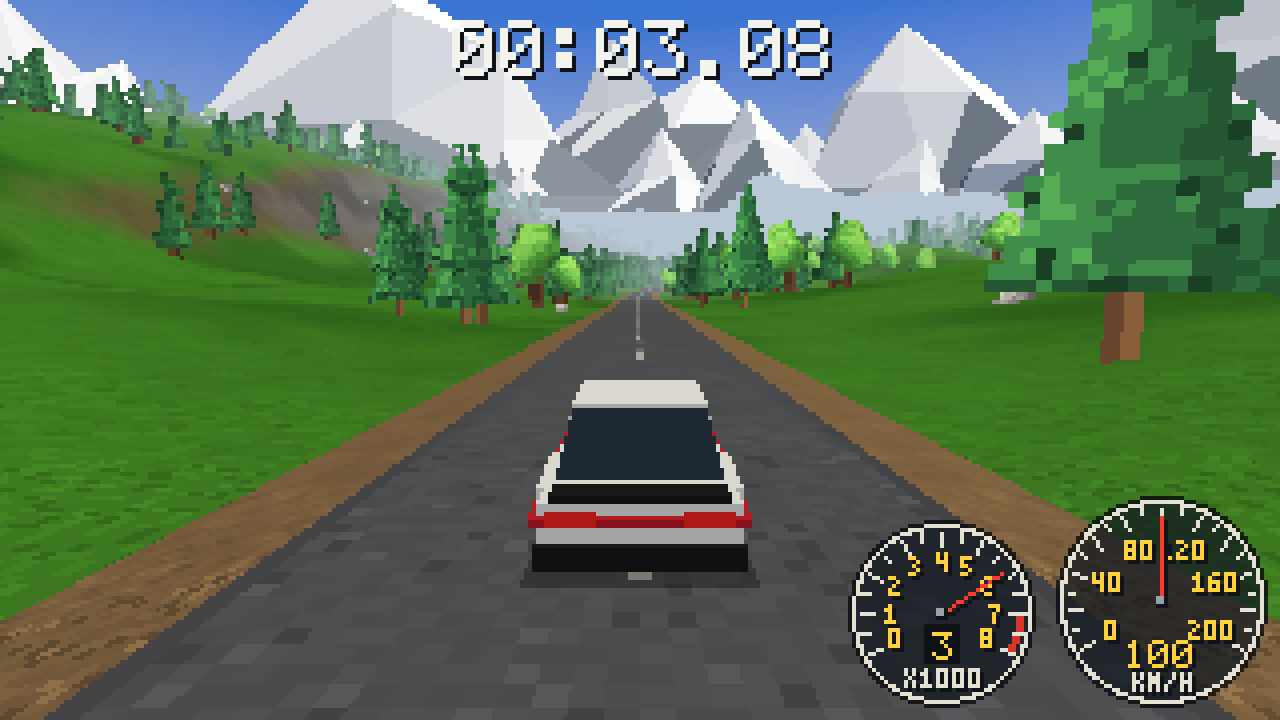
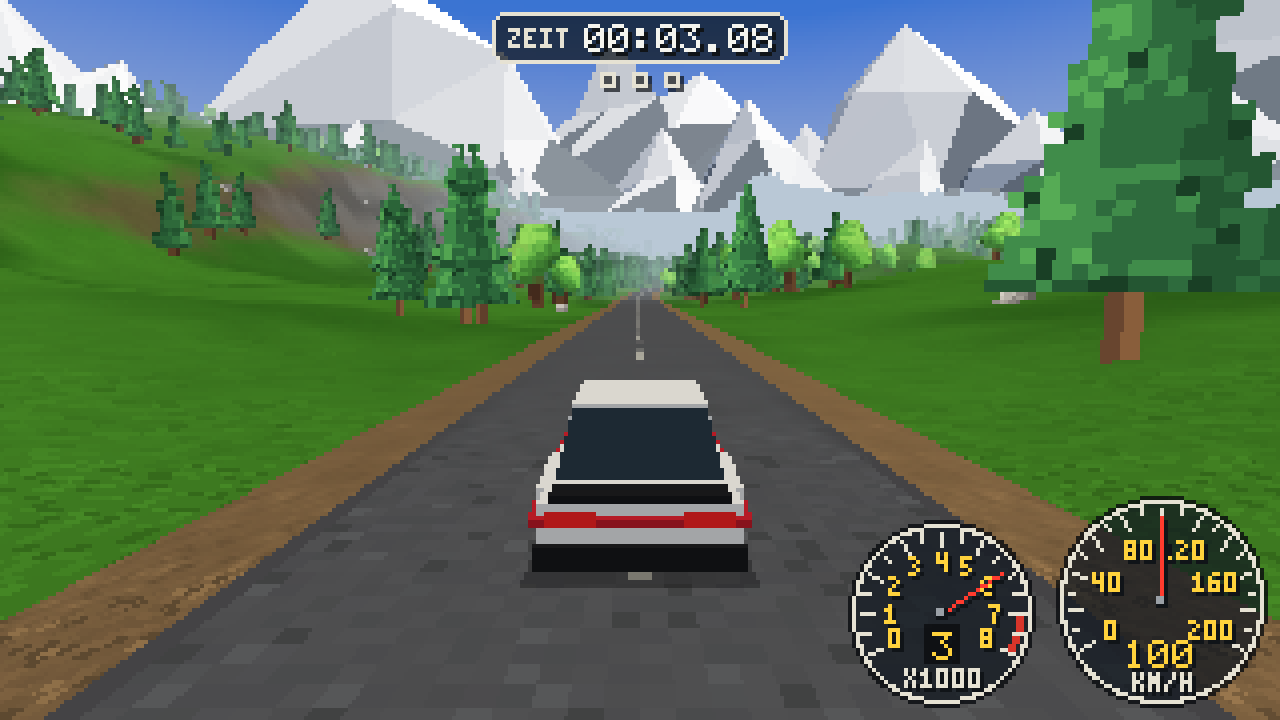
M1.2 Abschluss: STAND.md, KONZEPT.md, Screenshots
Ausserdem: Nur lenken im Stand (ohne Pedal) liess das Auto rückwärts
kriechen (schon in M1.1) – behoben, mit Prüfung in tools/lenk-test.mjs.

Claude-Session: https://claude.ai/code/session_012XLFPLYn1451V2JeceQVqb

Changed region(s): [[0.3438, 0.0, 0.6562, 0.1528]]

diff --git a/js/physics.js b/js/physics.js
@@ -124,8 +124,11 @@ export class Fahrphysik {
     // Längsanteil der Vorderrad-Seitenkraft: mit dem Einschlag ohne den Extra-Einschlag
     // im Schritttempo gerechnet, damit Rückwärtsfahren und Anfahren wie bisher bleiben
     // (der Extra-Einschlag wirkt nur aufs Drehen).
+    // Ohne Pedal und fast im Stand gibt es keinen Längsanteil (sonst kroch das Auto beim
+    // blossen Lenken im Stand von selbst rückwärts).
     const deltaLaengs = begrenze(delta, -maxLenkAlt, maxLenkAlt);
-    const laengsQuer = -kraftV * Math.sin(deltaLaengs);
+    const ohnePedal = eingabe.gas < 0.05 && eingabe.bremse < 0.05;
+    const laengsQuer = -kraftV * Math.sin(deltaLaengs) * (ohnePedal ? glatt(0.5, 2.0, Math.abs(vVor)) : 1);
     const drehBeschl = (a * kraftV * Math.cos(delta) - b * kraftH) / c.traegheit
       + c.stabilitaet * this.stabAnteil * schraeg * Math.min(1, Math.abs(vVor) / 10);
 

diff --git a/STAND.md b/STAND.md
@@ -1,8 +1,9 @@
 # Alpine Rally – Stand
 
-Aktuell: **Meilenstein 1.1 fertig** – harter Aufprall statt Wegschleudern, und Sperren aus
-Felsbrocken, Tannengruppen und umgefallenen Stämmen gegen Abkürzungen. Dazu die erste Etappe
-„Passstrasse“ aus Meilenstein 1. Das Konzept und der Fahrplan stehen in `KONZEPT.md`.
+Aktuell: **Meilenstein 1.2 fertig** – Sperren nur noch in 4 von 9 Kurven (Schneiden gehört dazu),
+mehr Lenkeinschlag im Schritttempo, Getriebe mit spürbarer Schaltpause, analoge Tachos und eine
+kleinere Zeitanzeige. Dazu alles aus Meilenstein 1 und 1.1 (Etappe „Passstrasse“, harter Aufprall).
+Das Konzept und der Fahrplan stehen in `KONZEPT.md`.
 
 ## Steuerung
 
@@ -16,11 +17,268 @@ Felsbrocken, Tannengruppen und umgefallenen Stämmen gegen Abkürzungen. Dazu di
 | Neustart nach dem Ziel | R | Start / Options |
 | Debug-Anzeige | F3 | – |
 
-Tastatur und Gamepad gehen gleichzeitig, nichts einzustellen.
+Tastatur und Gamepad gehen gleichzeitig, nichts einzustellen. Geschaltet wird automatisch.
 
 ---
 
-## Meilenstein 1.1: Harter Aufprall und Schluss mit Abkürzungen ✅
+## Meilenstein 1.2: Kurven schneiden, Lenken, Schalten, Tachos ✅
+
+### Was neu ist
+
+**1. Sperren nur noch in 4 von 9 Kurven**
+- Vorher standen in **allen 9** Kurven, in denen man abkürzen konnte, Sperren (29 Stück). Jetzt
+  entscheidet das Werkzeug `tools/abkuerzungen.mjs` pro Kurve: **gesperrt** (Sperren stehen, später
+  Pace-Note „nicht schneiden“) oder **frei** (keine Sperren, Schneiden erlaubt, später Pace-Note
+  „schneiden“).
+- Ergebnis: **4 gesperrt, 5 frei = 44 %** (Ziel 40 %, erlaubt 30–50 %).
+- Wie ausgewählt wird (in dieser Reihenfolge):
+  1. **Pflicht:** Spart eine Abkürzung mehr als 12 m Weg oder mit echter Fahrphysik mehr als 0.5 s,
+     wird immer gesperrt. → Das trifft **die Schikane (3196 m)**: Dort spart Schneiden laut
+     Testfahrer ca. 1.5 s (siehe unten).
+  2. **Von Hand:** Listen `immerSperren` / `immerFrei` in `config.js` (zurzeit leer).
+  3. **Grösster Gewinn zuerst**, aber Kurven, in denen die Sperre eine lange Reihe auf offener Wiese
+     wäre, bleiben frei (Talkurve 612 m, Passhöhe 2586 m – Linos „Steinriegel am Feldrand“ sind weg).
+     Wald, Hang oder Felswand in der Nähe machen eine Kurve eher zur gesperrten.
+  4. **Abwechslung:** Ist die Kurve davor oder danach schon gesperrt, wird diese seltener gesperrt.
+
+| Kurve (Streckenmeter) | Innenseite | Gewinn (Weg) | Schneiden spart (Zeit) | jetzt | Grund |
+|---|---|---|---|---|---|
+| 482 – 752 (Talkurve) | links | 7.1 m | −5.9 s (langsamer!) | **frei** | offene Wiese, Sperre wäre eine 21 m lange Reihe |
+| 1085 – 1230 (Waldstück) | rechts | 4.0 m | −0.8 s | **frei** | kleiner Gewinn, Kehre 1 daneben ist schon gesperrt |
+| 1350 – 1415 (Kehre 1) | links | 6.9 m | −0.3 s | gesperrt | grosser Gewinn, dichter Wald, Hang 23 % |
+| 1496 – 1562 (Kehre 2) | rechts | 8.4 m | 0.0 s | gesperrt | grösster Gewinn, Wald, Hang 22 % |
+| 1643 – 1708 (Kehre 3) | links | 7.3 m | −0.3 s | **frei** | beide Nachbarkehren sind gesperrt (Abwechslung) |
+| 1789 – 1854 (Kehre 4) | rechts | 6.3 m | −0.3 s | gesperrt | Gewinn, dichter Wald, Hang 20 % |
+| 1876 – 1955 (nach den Kehren) | links | 4.9 m | −0.9 s | frei* | kleiner Gewinn |
+| 2484 – 2710 (Passhöhe) | links | 5.1 m | −4.8 s (langsamer!) | **frei** | offene Wiese, Sperre wäre eine 16 m lange Reihe |
+| 3196 – 3234 (Schikane) | links | 3.2 m | **+1.5 s** | gesperrt | **Pflicht-Sperre** (spart mehr als 0.5 s) |
+
+\* In der Kurve 1876 – 1955 steht keine eigene Sperre, aber die Sperre von Kehre 4 macht die paar
+geraden Abkürzungen dort trotzdem zu. Sie steht darum nicht in der Liste „schneiden“.
+
+- Reihenfolge entlang der Strecke (G = gesperrt, F = frei): **F F G G F G F F G** – gesperrte und
+  freie Kurven wechseln sich ab, nirgends alle am Stück.
+- **Zeitvergleich mit echter Fahrphysik** (neues Werkzeug `node tools/testfahrer.mjs --schneiden`,
+  inklusive Getriebe): Der Testfahrer fährt jede Kurve einmal auf der Ideallinie (bleibt auf Strasse
+  und Bankett) und einmal quer über die Wiese, von 90 m vor bis 60 m nach der Kurve, je mit den
+  8 besten Abkürzungen. **In allen freien Kurven ist Schneiden gleich schnell oder langsamer** (Spalte
+  „Zeit“ oben, minus = langsamer): Das Gras bremst so stark, dass sich übertriebenes Schneiden nicht
+  lohnt – in den weiten Kurven kostet es sogar 5–6 s. Richtwert „höchstens 0.3 s“: erfüllt.
+- In den gesperrten Kurven kommt man nirgends mehr durch (0 Abkürzungslinien, auch mit 1.8 m
+  Autobreite). In den freien Kurven bleiben 559 Linien offen – gewollt.
+- Sperren sehen aus wie in M1.1 (gleiche Bausteine, grösste Lücke 1.27 m, Strasse und Bankett frei).
+
+| | M1.1 | M1.2 |
+|---|---|---|
+| gesperrte Kurven | 9 von 9 | **4 von 9** |
+| Sperren | 29 | **18** |
+| Felsbrocken / Stämme | 41 / 38 | 22 / 24 |
+| Hindernisse gesamt (F3) | 7607 | **7425** |
+| Ladezeit (Testumgebung) | 1.1–1.6 s | 1.6 s (schwankt je Lauf) |
+
+- **Für die Pace-Notes (Meilenstein 4)** gibt es in `js/abkuerzungen.js` jetzt zwei Listen:
+  `nichtSchneiden` (die 4 gesperrten Kurven) und neu `schneiden` (die 4 freien Kurven, in denen
+  Schneiden Weg spart, mit Meterzahl). Beides erzeugt das Werkzeug automatisch, im Spiel sieht man noch
+  nichts davon.
+
+**2. Mehr Lenkeinschlag im Schritttempo**
+- Unter ca. 7 km/h lenken die Räder jetzt bis **48°** ein (vorher 27°), bis ca. 30 km/h läuft das weich
+  aus. Ab 30 km/h ist alles genau wie vorher. Gilt vorwärts und rückwärts, Tastatur und Gamepad.
+
+| Tempo, voller Einschlag | Einschlag | Wendekreis-Radius | Drehrate |
+|---|---|---|---|
+| 5 km/h | 27° → **48°** | 4.9 m → **2.3 m** | 16°/s → **35°/s** |
+| 10 km/h | 25° → **47°** | 5.4 m → **2.4 m** | 29°/s → **67°/s** |
+| 5 km/h rückwärts | 27° → **48°** | 4.9 m → **2.3 m** | 16°/s → **35°/s** |
+| 20 km/h | 22° → 32° | 6.2 m → 4.4 m | 52°/s → 75°/s |
+| 30 km/h | 20° → 20° | gleich | gleich |
+| 40 / 100 / 150 km/h | 18° / 10° / 5.5° | **genau gleich wie vorher** | **genau gleich** |
+
+- Das Rückwärtsfahren selbst (Tempo, Beschleunigung) ist unverändert – der Extra-Einschlag wirkt nur
+  aufs Drehen.
+- Die Vorderräder drehen sichtbar höchstens 35° ein (bei 48° standen sie unglaubwürdig quer, siehe
+  Screenshots `14a`/`14b`). Die Physik rechnet trotzdem mit 48°.
+
+**3. Getriebe mit Schaltpause**
+- Das Auto hat jetzt **5 Gänge plus R und N**. Geschaltet wird automatisch, aber es fühlt sich an wie
+  ein Handschalter: Bei jedem Gangwechsel gibt es eine kurze Pause (hoch 0.28 s, runter 0.18 s), in der
+  der Motor nicht antreibt – das Auto rollt kurz, dann zieht es wieder.
+- Der Motor hat eine Drehmomentkurve: unter 2000 U/min schwach, 4000–6000 voll, bis 7000 leicht
+  abfallend. In tiefen Gängen zieht das Auto kräftig (1. Gang bis 8 m/s²), in hohen weniger.
+- Anfahren: Kupplung schleift, darum kein lahmer Start. Auf Gras drehen die Räder durch (höchstens
+  5.3 statt 7.5 m/s² Antrieb).
+- Ohne Gas bremst der Motor im tiefen Gang bei hoher Drehzahl spürbar mehr (1. Gang bis 0.7 m/s²) als
+  im 5. Gang (0.2–0.3 m/s²).
+- Automatik: Hochschalten bei 4500 U/min (wenig Gas) bis 6900 U/min (Vollgas), runterschalten unter
+  1800–2600 U/min, beim Bremsen schon unter 3200. **Kickdown:** Gas voll durchtreten bei niedriger
+  Drehzahl → ein oder zwei Gänge tiefer. Nach jedem Schaltvorgang 0.6 s Pause, und kurzes Lupfen am
+  Gas löst kein Hochschalten aus (kein Hin und Her).
+- Rückwärts: „R“, genau wie bisher, ohne Schaltpause. Im Stand ohne Gas und Bremse nach 0.5 s „N“.
+
+| Vollgas aus dem Stand | M1.1 (ohne Getriebe) | M1.2 |
+|---|---|---|
+| 0 auf 100 km/h | 5.03 s | **5.13 s** (mit 2 Schaltpausen) |
+| 0 auf 160 km/h | 10.7 s | 12.8 s |
+| 0 auf 185 km/h | 20.2 s | 24.4 s |
+| Höchsttempo | 188 km/h | **188 km/h** (5. Gang, 6750 U/min, weich auslaufend) |
+
+| Hochschalten (Vollgas) | bei | Tempo während der Pause | Beschleunigung davor → danach |
+|---|---|---|---|
+| 1 → 2 | 47 km/h | −0.1 km/h | 6.7 → 6.3 m/s² |
+| 2 → 3 | 81 km/h | −0.5 km/h | 5.0 → 4.8 m/s² |
+| 3 → 4 | 116 km/h | −1.2 km/h | 3.4 → 3.2 m/s² |
+| 4 → 5 | 154 km/h | −2.2 km/h | 1.7 → 1.5 m/s² |
+
+- Gegenüber „durchgehend Gas ohne Pause“ verliert das Auto pro Hochschaltung 4–7 km/h (siehe
+  Bekannte Probleme).
+- Bremstest (voll bremsen ab 180 km/h): 5 → 3 bei 89 km/h, 3 → 2 bei 54 km/h, 2 → 1 bei 24 km/h,
+  Stand nach 4.4 s.
+- Handbremse in der Kehre (40 und 60 km/h, 0.7 s Handbremse, dann Gas): dreht genau so weit wie
+  vorher (33° bzw. 32°; danach mit Gas 111° statt 114° bzw. 74° wie vorher), bleibt im 1./2. Gang –
+  gut kontrollierbar wie bisher.
+
+**4. Analoge Tachos**
+- Unten rechts zwei runde Pixel-Tachos im 80er-Look statt der grossen Zahl: rechts **Tempo** (0–200,
+  Zahlen alle 40, kleine digitale km/h-Zahl unten drin), links **Drehzahl** (0–8 × 1000 U/min, roter
+  Bereich ab 7, Gangzahl im Kästchen: 1–5, „R“ rot, „N“).
+- Rote Nadeln mit Schatten, die Tempo-Nadel folgt gedämpft, die Drehzahl-Nadel schneller. In der
+  Schaltpause fällt die Drehzahl-Nadel ab, die Gangzahl wechselt erst am Ende der Pause.
+- Die Zifferblätter sind halbdurchsichtig, damit sie nicht zu viel vom Bild zudecken.
+- F3 zeigt zusätzlich `GANG x U/MIN xxxx`.
+
+**5. Zeitanzeige kleiner**
+- Die Zeit steht klein (5 × 7 Pixel) auf einer dunklen Tafel mit hellem Rand und abgeschrägten Ecken,
+  daneben winzig „ZEIT“. Weiss, wenn sie läuft, gelb vor dem Start. Die Breite springt nicht.
+- Darunter drei kleine Quadrate für die Checkpoints: leer = noch nicht, gelb = erreicht.
+- Die Zwischenzeit („CP 1 00:26.33“) erscheint wie bisher 3 Sekunden, jetzt klein und gelb unter
+  der Tafel. Zielanzeige unverändert.
+
+**6. Nebenbei behoben**
+- **Nach dem Ziel rollte das Auto von selbst rückwärts davon** (bis 22 km/h, war schon in M1.1 so):
+  Die automatische Bremse nach dem Ziel ging im Stand in den Rückwärtsgang über. Jetzt bleibt das Auto
+  stehen.
+- **Nur lenken im Stand liess das Auto rückwärts kriechen** (war schon in M1.1 so: 3.7 m in 2 s).
+  Mit dem neuen Einschlag hätte es sich dabei sogar im Kreis gedreht. Jetzt bleibt es stehen, solange
+  kein Pedal gedrückt ist.
+
+### So testest du
+
+1. **Kurven schneiden:** Probier es in den freien Kurven: Talkurve (ca. 600 m), Waldstück (ca. 1150 m),
+   **Kehre 3** (ca. 1675 m), Passhöhe (ca. 2590 m). Lohnt es sich? Ist es zu einfach oder zu
+   bestrafend? In Kehre 1, 2, 4 und in der Schikane sollte es nicht gehen.
+2. **Schaltgefühl:** Vollgas aus dem Stand. Spürst du die kurzen Pausen beim Schalten? Zu lang, zu kurz,
+   zu oft? Schaut auf den Drehzahlmesser: Nadel fällt beim Schalten, Gangzahl springt.
+3. **Kehren:** Bremst du vor der Kehre, schaltet er runter; beim Rausbeschleunigen Kickdown. Fühlt sich
+   das gut an? Schaltet er mal unnötig hin und her?
+4. **Lenken im Schritttempo:** Absichtlich in einen Baum fahren, dann rückwärts und mit vollem Einschlag
+   zurück auf die Strasse. Geht das jetzt besser? Zu viel?
+5. **Tachos und Zeit:** Gut lesbar auf beiden Rechnern? Decken die Tachos etwas Wichtiges zu?
+6. **FPS (F3)** wie bisher auf beiden Rechnern.
+7. **Ganze Etappe:** Deine Zeit im Vergleich zu vorher? (Der Testfahrer ist ca. 1–2 s langsamer.)
+
+### Wo man schrauben kann (alles in `js/config.js`)
+
+- **Schaltgefühl** (Abschnitt `getriebe`):
+  - `schaltDauerHoch` (0.28 s) / `schaltDauerRunter` (0.18 s) – wie lange beim Schalten kein Antrieb
+    wirkt. Kürzer = sportlicher, länger = schwerfälliger. 0 = ohne Pause.
+  - Schaltpunkte: `hochWenigGas` (4500) / `hochVollgas` (6900) = wann hochgeschaltet wird,
+    `runterWenigGas` (1800) / `runterVollgas` (2600) / `runterBremsen` (3200) = wann runter,
+    `kickdownGas` / `kickdownUnter` / `kickdownMax` = Kickdown, `schaltSperre` (0.6 s) = Pause
+    zwischen zwei Schaltvorgängen.
+  - `drehmoment` – die Drehmomentkurve als Liste [U/min, Anteil]. Zum Beispiel unten mehr Kraft:
+    `[2000, 0.7]` statt `[2000, 0.55]`.
+  - `zugkraft` – Schub je Gang (1. bis 5.). Alle etwas höher = schneller, höher in den hohen Gängen =
+    mehr Durchzug über 100 km/h (dann `auto.luftwiderstand` mit erhöhen, sonst steigt das Höchsttempo).
+  - `gaenge` – Tempo je Gang bei 7000 U/min (bestimmt, wann geschaltet wird).
+  - `traktion` – wie viel Schub auf den Boden kommt (mal Grip: Gras weniger).
+- Höchsttempo: `auto.luftwiderstand` (höher = langsamer oben raus).
+- Lenkung im Schritttempo: `auto.lenkwinkelStand` (48°), `auto.lenkStandBisTempo` (8 m/s),
+  sichtbarer Radeinschlag `autoOptik.radEinschlagMax` (35°).
+- Welche Kurven gesperrt sind: Abschnitt `abkuerzung` – `sperrQuote` (0.4), `immerSperren` und
+  `immerFrei` (z. B. `immerFrei: [1520]` für Kehre 2), `pflichtGewinn`, `pflichtZeit`. **Danach muss das
+  Werkzeug neu laufen** (`node tools/abkuerzungen.mjs`) – sag Claude einfach „Kurve bei 1520 m bitte
+  frei“.
+- Tachos: Abschnitt `hud.tacho` (Grösse, Abstände, Farben, Skalen, wie schnell die Nadeln folgen).
+- Zeittafel: Abschnitt `hud.zeit` (Grösse, Farben, Checkpoint-Punkte).
+
+### Selbst getestet
+
+- Spiel startet ohne Fehler in der Browser-Konsole. Etappe, Zeit, Checkpoints, Zwischenzeiten,
+  Zielanzeige und F3 funktionieren (Screenshots).
+- **Automatischer Testfahrer** – neu als Werkzeug im Projekt (`node tools/testfahrer.mjs`), fährt der
+  Strassenmitte nach, bremst vor Kurven, ohne Handbremse. Gleicher Fahrer auf der alten Version (M1.1)
+  und der neuen:
+
+| Profil | M1.1 | M1.2 | Unterschied |
+|---|---|---|---|
+| vorsichtig | 2:32.52 | 2:33.24 | +0.7 s |
+| mittel | 2:17.85 | 2:19.11 (CP 0:26 / 1:22 / 1:54) | +1.3 s |
+| flott | 2:08.35 | 2:10.41 | +2.1 s |
+
+  Etwas langsamer, weil das Auto über 100 km/h weniger zieht und die Schaltpausen Zeit kosten. Kein
+  Aufprall, nirgends hängen geblieben, alle Checkpoints und das Ziel erkannt, nächste Sperre 4.1 m
+  entfernt. 32–47 Gangwechsel pro Etappe, davon 0–1 „hin und her“ (vorher 20, behoben mit dem
+  geglätteten Gaspedal). Die Zeiten aus M1.1 weiter unten stammen von einem anderen Testfahrer und
+  sind nicht direkt vergleichbar.
+- `node tools/getriebe-test.mjs` – Zeitreihe Vollgas alle 0.25 s (Tempo, Gang, Drehzahl, Schaltpause),
+  0–100, Höchsttempo, Bremstest, Motorbremse, Kickdown, Anfahren auf Gras, Leerlauf/Rückwärts.
+- `node tools/lenk-test.mjs` – Lenkwerte vorher/nachher (Tabelle oben), alle Prüfungen erfüllt.
+- `node tools/aufprall-test.mjs` – **Aufprall unverändert**: 100 → 2 km/h frontal, 45° → 30 %,
+  75° → 80 %, nie eingedrungen, alle Prüfungen erfüllt.
+- `node tools/abkuerzungen.mjs` – `js/abkuerzungen.js` neu erzeugt, 0 Abkürzungen in gesperrten Kurven.
+- Leistung im Software-Modus (ohne Grafikkarte), alte und neue Version direkt nacheinander gemessen:
+  gleich viele Zeichenaufrufe, ca. 1400 Dreiecke weniger, FPS gleich (4–6, schwankt). **Echte FPS bitte
+  mit F3 auf beiden Rechnern prüfen.**
+- Screenshots unter `screenshots/m1-2/`:
+  - `01-hud-stand.png`, `02-hud-100kmh.png` (3. Gang), `03-hud-schaltpause.png` (mitten in 2 → 3,
+    Nadel fällt, Gang noch „2“), `04-hud-hoechsttempo.png` (187 km/h, 5. Gang)
+  - `05-zwischenzeit.png`, `06-ziel.png`, `07-f3-debug.png`
+  - `08-gesperrte-kehre-2-innen.png`, `11-gesperrte-kehre-4-innen.png`,
+    `15-gesperrte-schikane-innen.png` – Sperren im Kurveninnern
+  - `09-freie-kehre-3-innen.png`, `10-freie-talkurve-innen.png` – frei, keine Sperren mehr
+  - `12-kehren-von-oben.png`, `13-freie-kehre-3-von-oben.png`
+  - `14a-raeder-48grad-ungebremst.png` / `14b-raeder-sichtbar-35grad.png` – Radeinschlag
+
+### Bekannte Probleme
+
+- **Luftwiderstand geändert** (6.2 → 3.25 bei 190 km/h): Mit Getriebe ging das alte Mass nicht auf –
+  der 5. Gang hätte stärker ziehen müssen als der 1. Das Auslaufen beim Höchsttempo ist weiterhin weich,
+  Spitze 188 km/h wie vorher.
+- **Über 100 km/h zieht das Auto weniger als in M1.1** (0–160 in 12.8 statt 10.7 s), weil hohe Gänge
+  weniger Schub haben. Etappe dadurch 1–2 s langsamer. Wenn dir das zu zäh ist: `zugkraft` der hohen
+  Gänge erhöhen (siehe oben).
+- **Tempoverlust beim Schalten:** Während der Pause fällt das Tempo nur leicht (0.1–2.2 km/h, wie
+  gewünscht). Gegenüber „ohne Pause durchziehen“ fehlen aber 4–7 km/h pro Hochschaltung (gewünscht
+  waren 1–3) – bei 0.28 s ohne Antrieb und 5–7 m/s² Beschleunigung geht es nicht weniger. Das macht
+  0–100 ca. 0.5 s langsamer, ist aber genau das, was man spürt. Zu stark? → `schaltDauerHoch` kürzer.
+- Direkt nach dem Hochschalten ist die Beschleunigung nur wenig geringer als davor (z. B. 6.7 → 6.3
+  m/s²). Spürbar ist vor allem die Pause.
+- **Schikane = Pflicht-Sperre:** Der Testfahrer spart dort beim Schneiden 1.5 s. Wahrscheinlich ist der
+  Wert zu hoch, weil der Testfahrer die Ideallinie durch die S-Kurve nicht optimal fährt. Gesperrt war
+  sie ohnehin.
+- Der Zeitvergleich beim Schneiden stammt von einem einfachen Testfahrer ohne Handbremse. Ein geübter
+  Fahrer findet in **Kehre 3** vielleicht doch ein paar Zehntel (Testfahrer: −0.3 s). Bitte ausprobieren.
+- Rückwärts mit vollem Einschlag und dann Gas bremst das Rückwärtsrollen nur langsam (war schon
+  vorher so, bewusst nicht angefasst, weil sich Rückwärtsfahren richtig anfühlt).
+- Die Tempo-Nadel liegt im Stand über der „0“ – wie bei einem echten Tacho.
+- Leistung nur im Software-Modus messbar (siehe Meilenstein 1).
+
+### Ideen/Vorschläge (nicht umgesetzt)
+
+- Manuelles Schalten auf Tasten (z. B. Q/E, Gamepad LB/RB) – vorbereitet mit `getriebe.modus`.
+- Schaltblitz: Gangzahl blinkt kurz vor dem Hochschalten oder im roten Bereich.
+- Kleiner Ruck der Karosserie (Nicken) beim Schalten – ohne Kamera-Wackeln.
+- Motorsound mit Drehzahl (Sound war hier ausdrücklich nicht dran).
+- Zeittafel: am Ziel oder an Checkpoints die Differenz zur Bestzeit (+/−) anzeigen.
+- In M4 könnten die freien Kurven neben „schneiden“ auch zeigen, wie viel man spart.
+- Testfahrer mit Handbremse in den Kehren (dann sind die Testzeiten näher an einem Menschen).
+
+---
+
+## Meilenstein 1.1: Harter Aufprall und Schluss mit Abkürzungen ✅ (Verlauf, Stand damals)
+
+Hinweis: Seit Meilenstein 1.2 sind nur noch 4 von 9 Kurven gesperrt (18 statt 29 Sperren), und der
+Rückwärtsgang und das Fahren mit Gas laufen über das Getriebe. Der Aufprall ist unverändert.
 
 ### Was neu ist
 

diff --git a/KONZEPT.md b/KONZEPT.md
@@ -8,6 +8,7 @@ Retro-Rallyspiel im Browser, echtes 3D im Pixel-Look (N64/PS1), gefahren auf Sch
 - Kamera: nur hinter dem Auto (Vorbild V-Rally 3, GBA: dichte Landschaft).
 - Spielziel: Etappe von A nach B gegen die Uhr, mit Checkpoints. Beifahrer-Ansagen (Pace-Notes) kommen als Symbole oben im Bild. Gegner und Geister später.
 - Fahrphysik: Arcade mit Gewicht (schweres 80er-Rallyauto) und Handbremse für Kehren.
+- Fahrphysik mit Automatik-Getriebe (5 Gänge) und kurzer Schaltpause wie bei einem Handschalter (seit M1.2). Manuelles Schalten evtl. später als eigener Meilenstein.
 - Steuerung: Tastatur und Gamepad. Handy evtl. später.
 - Autos: aus einfachen Formen gebaut, Fantasienamen. Erstes Auto: Ringwerk RT4 (Quattro-Typ). Auto-Look und Feinschliff später.
 - Version 1 = eine Etappe fahrbar mit Zeitmessung.
@@ -15,7 +16,9 @@ Retro-Rallyspiel im Browser, echtes 3D im Pixel-Look (N64/PS1), gefahren auf Sch
 ## Was Lino mag / nicht mag
 - Mag: erdiges Bankett statt Randsteinen, Temposchilder, Leitplanke und Holzzaun als durchgehendes Band, Kollision mit Tempoverlust, Fahrgefühl wie ein schweres 80er-Rallyauto.
 - Aufprall: frontal hart zum Halt, danach rückwärts rausfahren (kein Wegschleudern, kein Weiterrutschen).
-- Abkürzungen sollen nicht gehen: Steine, Bäume, umgefallene Stämme im Kurveninnern.
+- Kurven schneiden gehört dazu: Nur ca. 40 % der Kurven sind mit Steinen, Bäumen oder umgefallenen Stämmen im Kurveninnern gesperrt (Pace-Note "nicht schneiden"), die anderen sind frei (Pace-Note "schneiden"). Gras bremst stark, darum lohnt übertriebenes Schneiden nicht.
+- Schalten soll man spüren: kurze Pause ohne Antrieb bei jedem Gangwechsel.
+- Analoge Tachos (Drehzahl mit Gangzahl, Tempo mit kleiner Digitalanzeige) im 80er-Look.
 - Mag nicht: Formel-1-Randsteine, Kurvenpfeil-Schilder, zu starkes Beschleunigen bergab, hartes Höchsttempo.
 - Später gewünscht: Schotter- und Wiesenabschnitte im Wechsel, Abzweigung mit Rally-Absperrung, sichtbare Auto-Seite beim Lenken, Wetter und Tageszeit.
 
@@ -23,8 +26,9 @@ Retro-Rallyspiel im Browser, echtes 3D im Pixel-Look (N64/PS1), gefahren auf Sch
 - M0 Prototyp (fertig)
 - M1 Erste Etappe: Strassen-Fix, Kollisionen, 3-4 km Strecke, Checkpoints (fertig)
 - M1.1 Harter Aufprall, Abkürzungssperren (Felsbrocken, Baumgruppen, umgefallene Stämme) (fertig)
+- M1.2 Sperren nur noch in ca. 40 % der Kurven, engere Lenkung im Schritttempo, Getriebe mit Schaltpause, analoge Tachos, kleinere Zeitanzeige (fertig)
 - M2 Dichtere Landschaft: Holzzäune, Leitplanken, Kühe, Schilder
 - M3 Untergründe: Schotter und Wiese, Abzweigung mit Absperrung
-- M4 Pace-Notes als Symbole, inkl. Symbol "nicht schneiden" an den gesperrten Kurven (Daten liegen seit M1.1 bereit)
-- M5 Drumherum: Tacho, Zielbildschirm, Feinschliff (Auto, Fahrphysik)
+- M4 Pace-Notes als Symbole, inkl. "nicht schneiden" an den gesperrten und "schneiden" an den freien Kurven (Daten liegen seit M1.2 bereit)
+- M5 Drumherum: Zielbildschirm, Minimap, Feinschliff (Auto, Fahrphysik)
 
